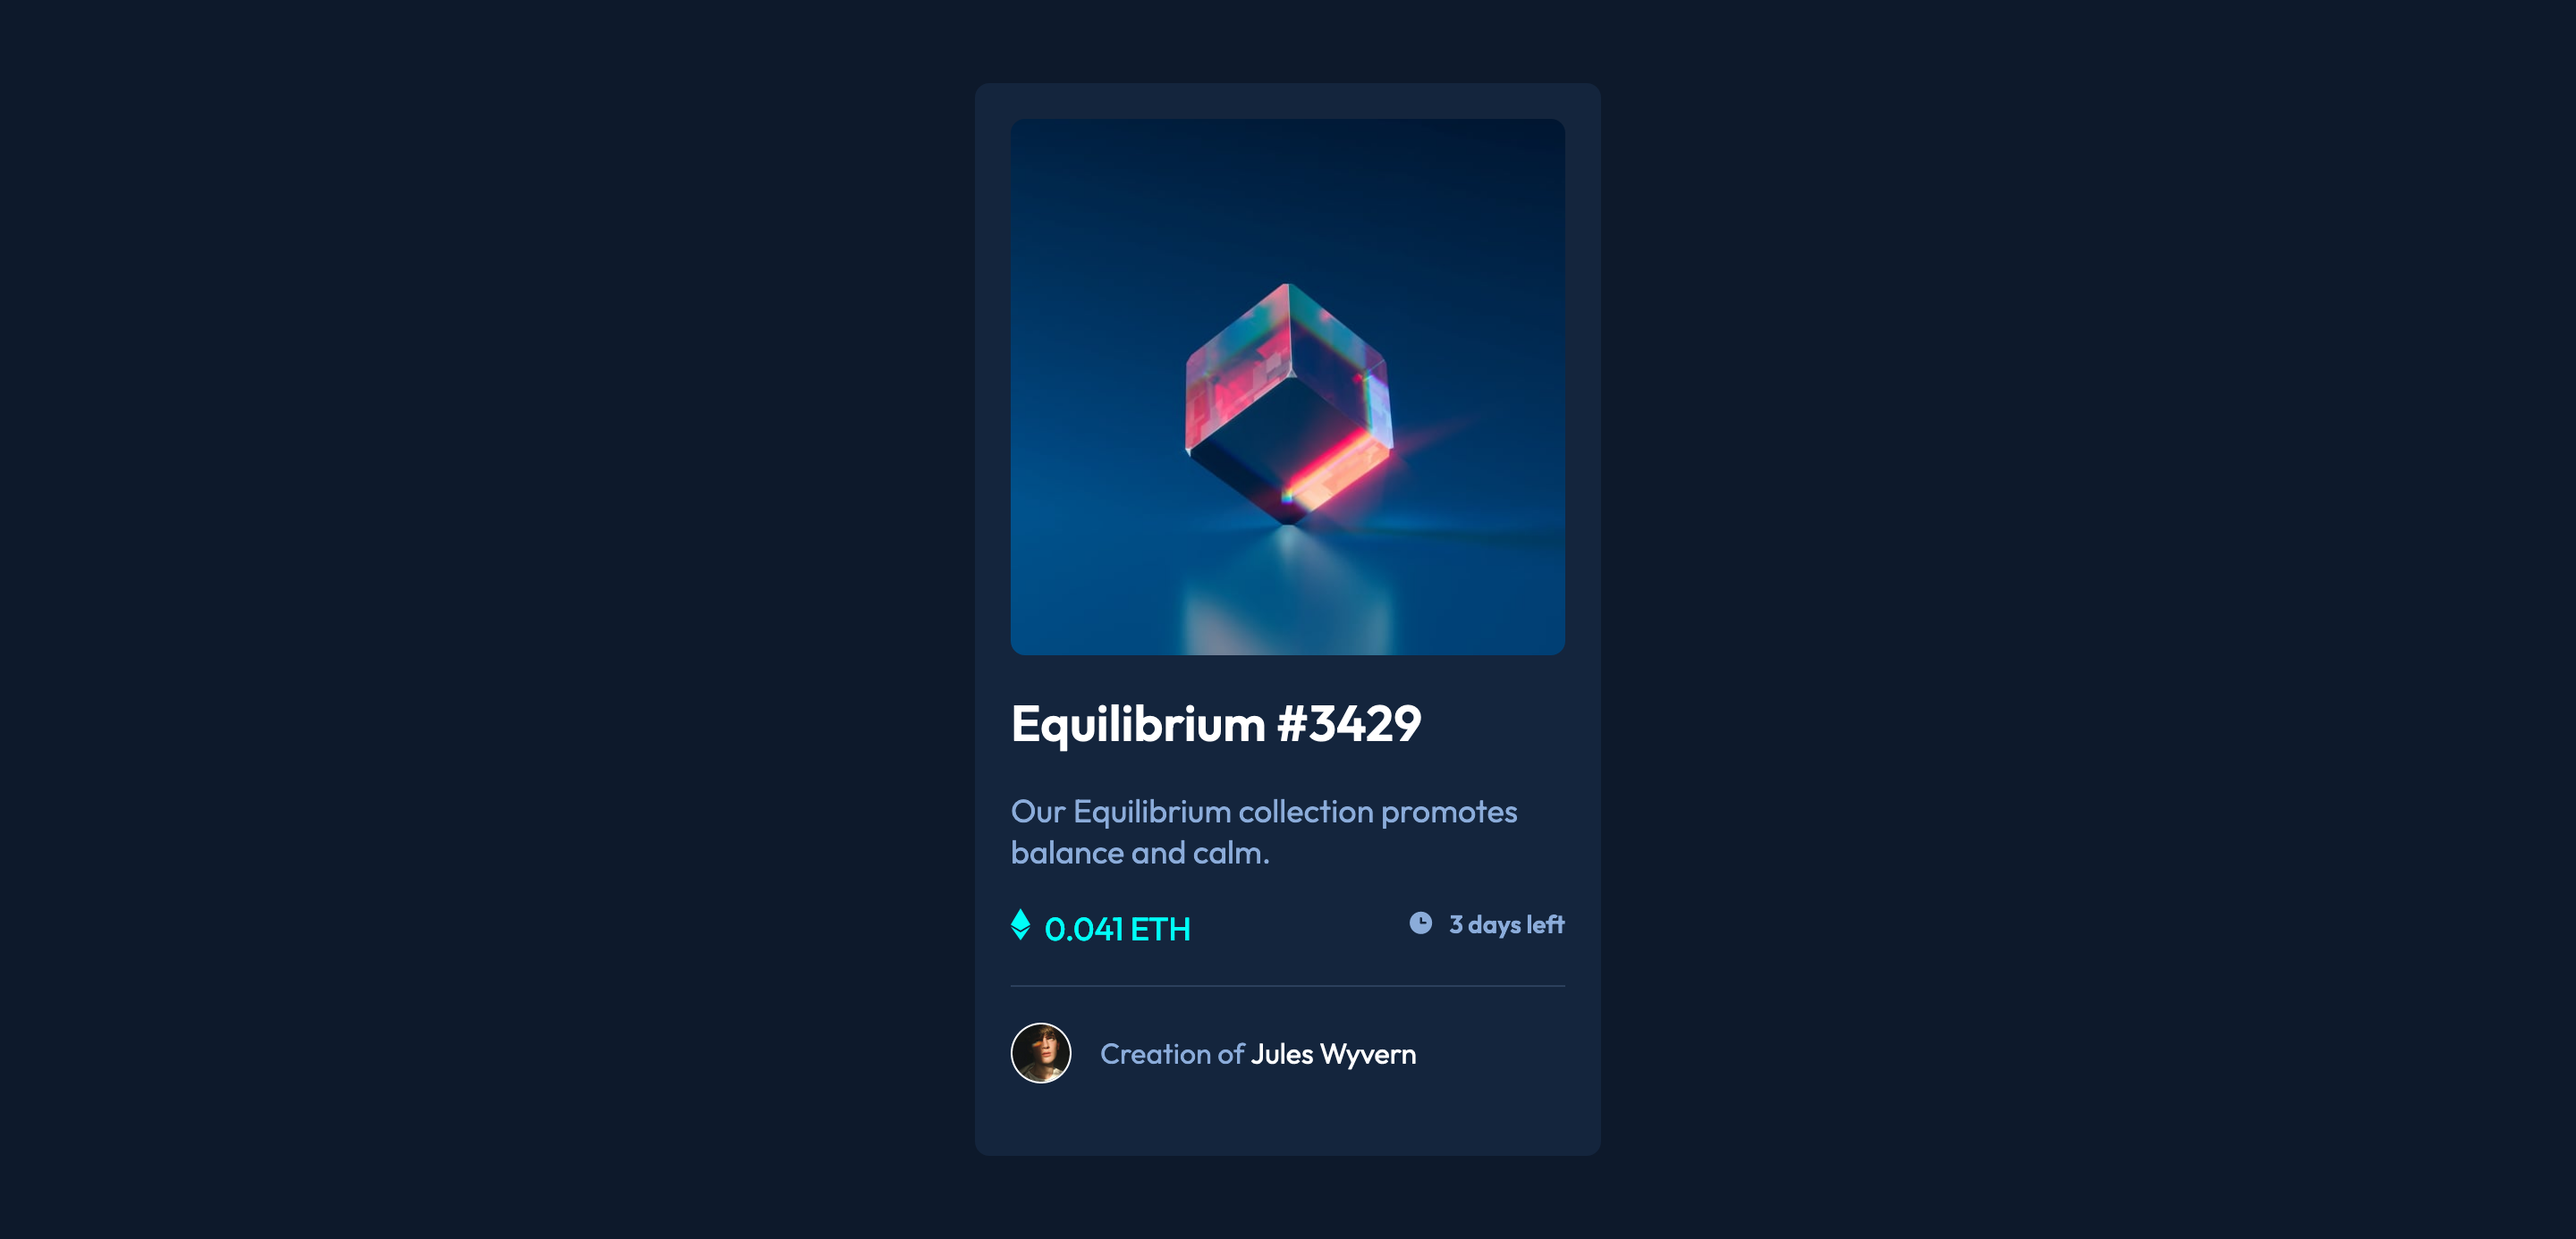
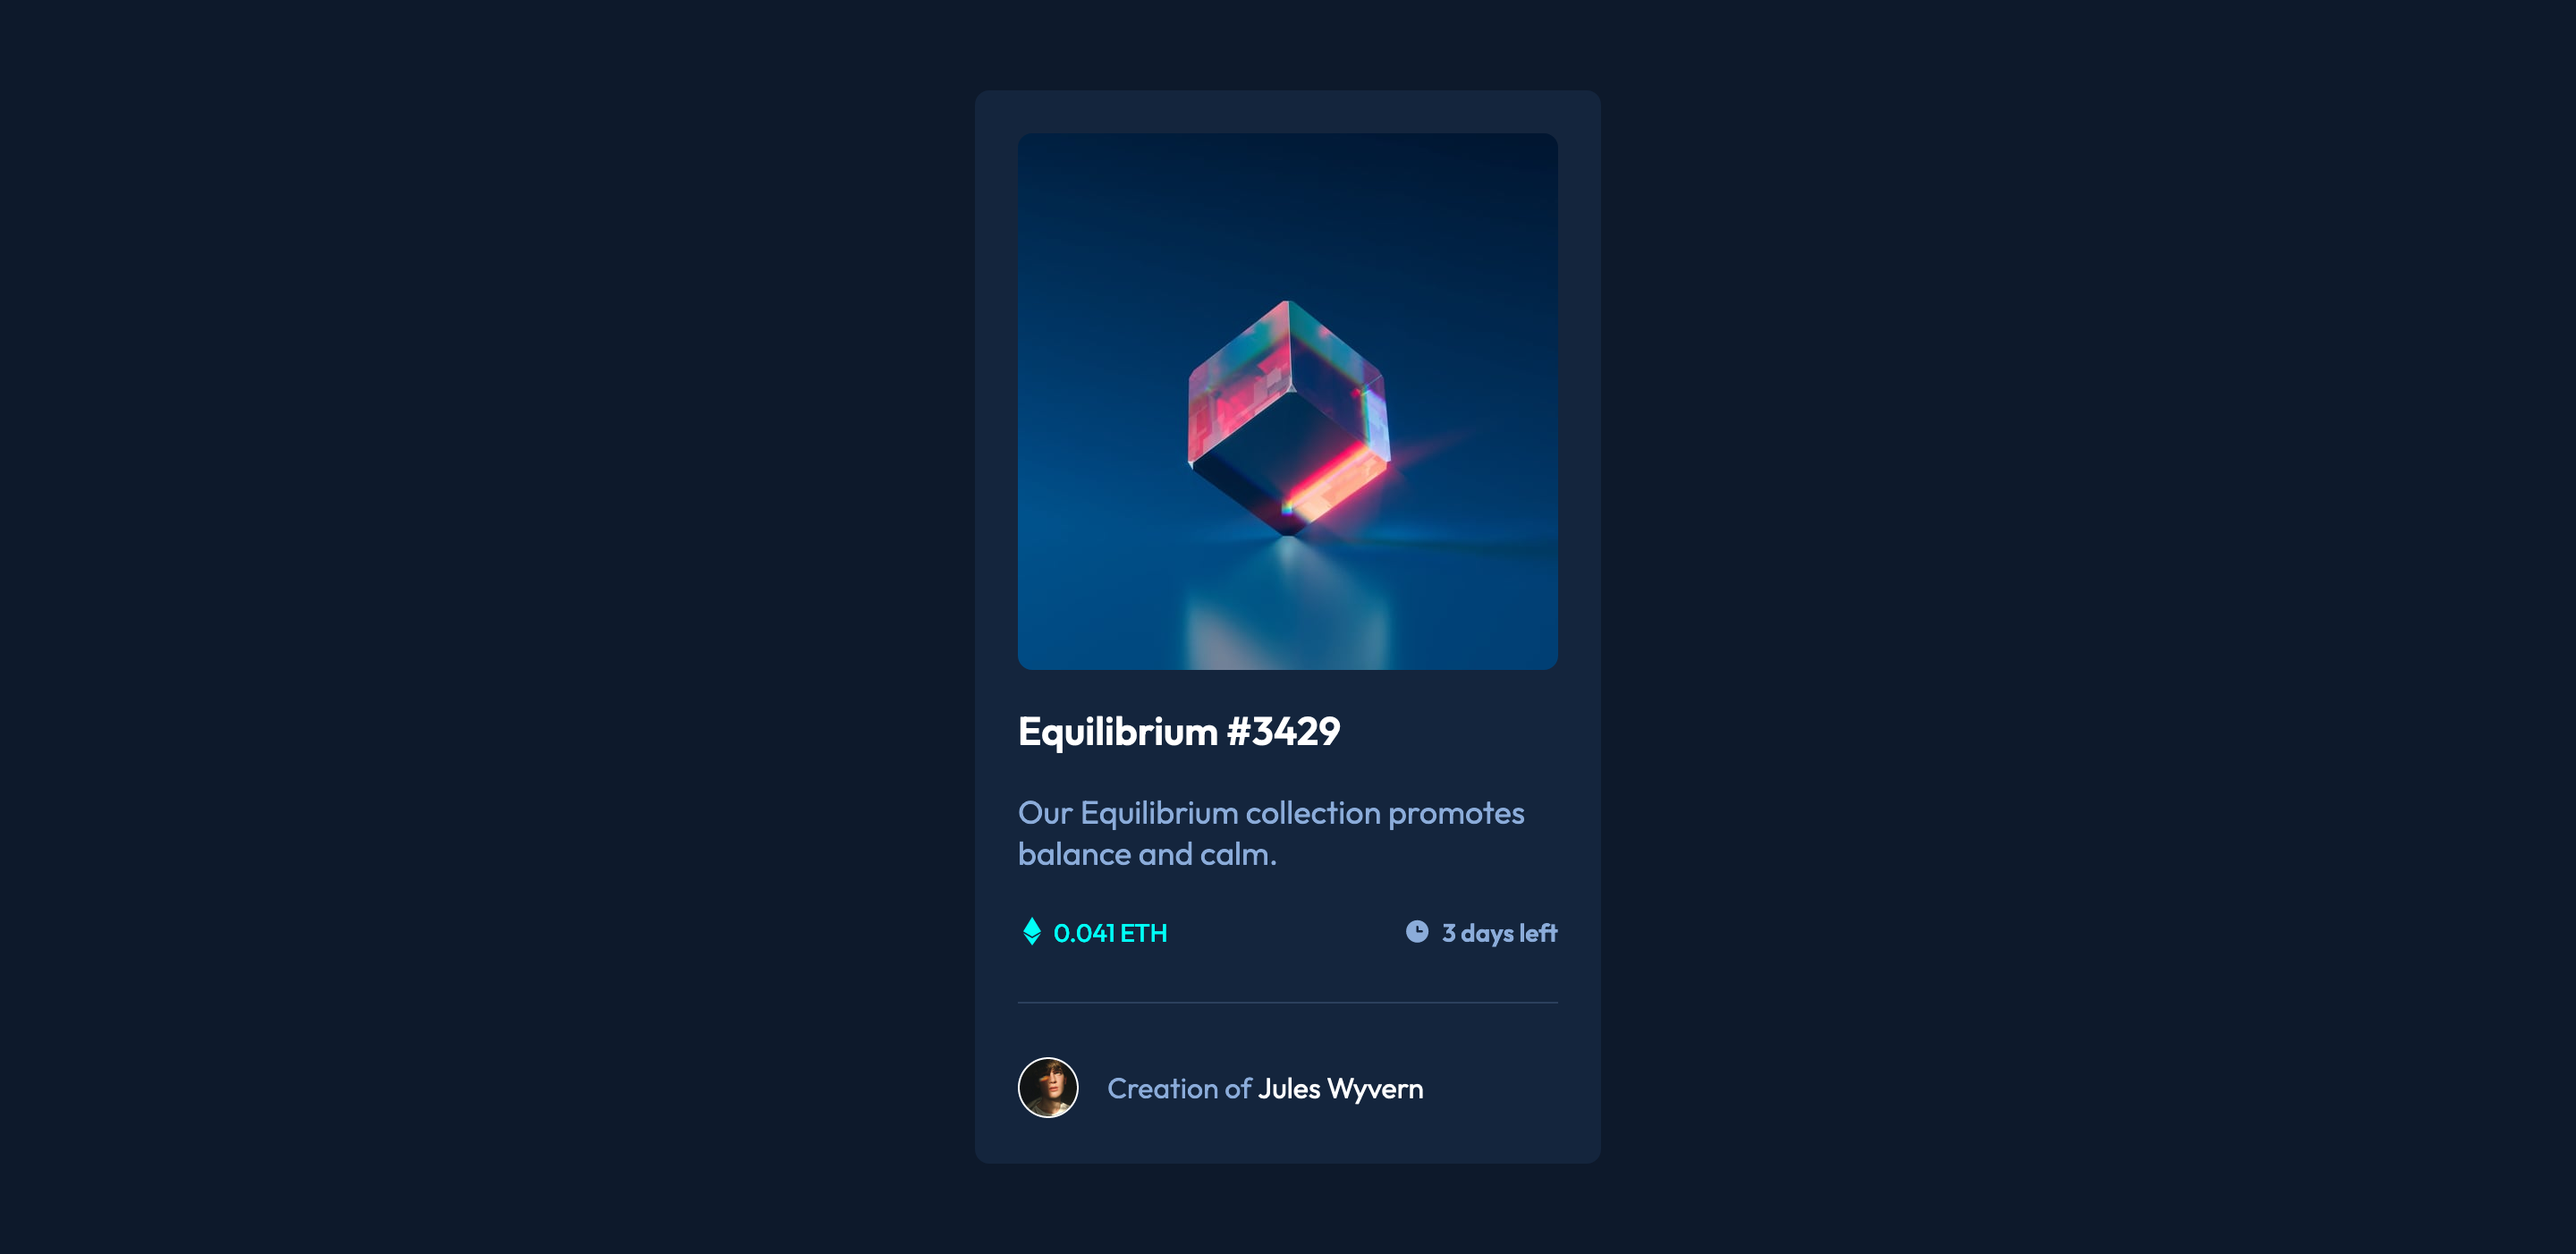
Fix(card): padding higher, font size smaller

diff --git a/stylesheets/index.css b/stylesheets/index.css
@@ -19,7 +19,7 @@ body {
     background-color: hsl(216, 50%, 16%);
     display: flex;
     flex-direction: column;
-    padding: 20px;
+    padding: 24px;
     border-radius: 8px;
 }
 
@@ -39,8 +39,6 @@ body {
     display: none;
     width: 100%;
     height: 100%;
-    /* top: 0;
-    left: 0; */
     z-index: 200;
     background-color: rgba(5, 255, 246, 0.6);
     border-radius: 8px;
@@ -74,7 +72,7 @@ body {
 #wrapper-text h1 {
     font-family: 'Outfit', sans-serif;
     color: hsl(0, 0%, 100%);
-    font-size: 28px;
+    font-size: 22px;
 }
 
 #wrapper-text p {
@@ -88,7 +86,29 @@ body {
 .row {
     display: flex;
     justify-content: space-between;
+    align-items: flex-end;
 }
+
+#wrapper-text .row p {
+    line-height: 125%;
+    font-size: 14px;
+    padding-top: 4px;
+}
+
+#wrapper-text .row p::before {
+    content: "";
+    background: url("../images/icon-ethereum.svg") no-repeat;
+    background-position-x: center;
+    background-position-y: center;
+    background-size: contain;   
+    width: 1rem;
+    height: 1rem;
+    display: inline-block;
+    text-align: center;
+    margin-right: 4px;
+    vertical-align: top;
+}
+
 
 .row p img {
     margin-right: 8px;
@@ -107,23 +127,20 @@ body {
 #wrapper-text .row p:last-child::before {
     content: "";
     background: url(../images/icon-clock.svg) no-repeat;
-    background-size: 1rem;
+    background-size: contain;
     background-position-x: center;
     background-position-y: center;
     width: 1rem;
     height: 1rem;
     display: inline-block;
     text-align: center;
-    margin-right: 0.5rem;
-    vertical-align: top;
-
+    margin-right: 6px;
 }
 
 
 hr {
-    margin: 20px 0;
+    margin: 30px 0;
     border: 0.2px solid rgba(139,172,218, 0.2);
-    
 }
 
 

diff --git a/index.html b/index.html
@@ -14,40 +14,32 @@
   <title>Frontend Mentor | NFT preview card component</title>
 
   <!-- Feel free to remove these styles or customise in your own stylesheet 👍 -->
-  <style>
-    .attribution {
-      font-size: 11px;
-      text-align: center;
-    }
-
-    .attribution a {
-      color: hsl(228, 45%, 44%);
-    }
-  </style>
 </head>
 
 <body>
+  <main role="main">
 
-  <div id="card">
-    <div id="image"></div>
-    <div id="wrapper-text">
-      <h1>
-        Equilibrium #3429
-      </h1>
-      <p>
-        Our Equilibrium collection promotes balance and calm.
-      </p>
+    <div id="card">
+      <div id="image"></div>
+      <div id="wrapper-text">
+        <h1>
+          Equilibrium #3429
+        </h1>
+        <p>
+          Our Equilibrium collection promotes balance and calm.
+        </p>
 
-      <div class="row">
-        <p><img src="./images/icon-ethereum.svg" />0.041 ETH</p>
-        <p>3 days left</p>
+        <div class="row">
+          <p>0.041 ETH</p>
+          <p>3 days left</p>
+        </div>
+        <hr />
+        <p id="card-footer">
+          Creation of <span>&nbsp;Jules Wyvern</span>
+        </p>
       </div>
-      <hr />
-      <p id="card-footer">
-        Creation of <span>&nbsp;Jules Wyvern</span>
-      </p>
     </div>
-  </div>
+  </main>
 </body>
 
 </html>
